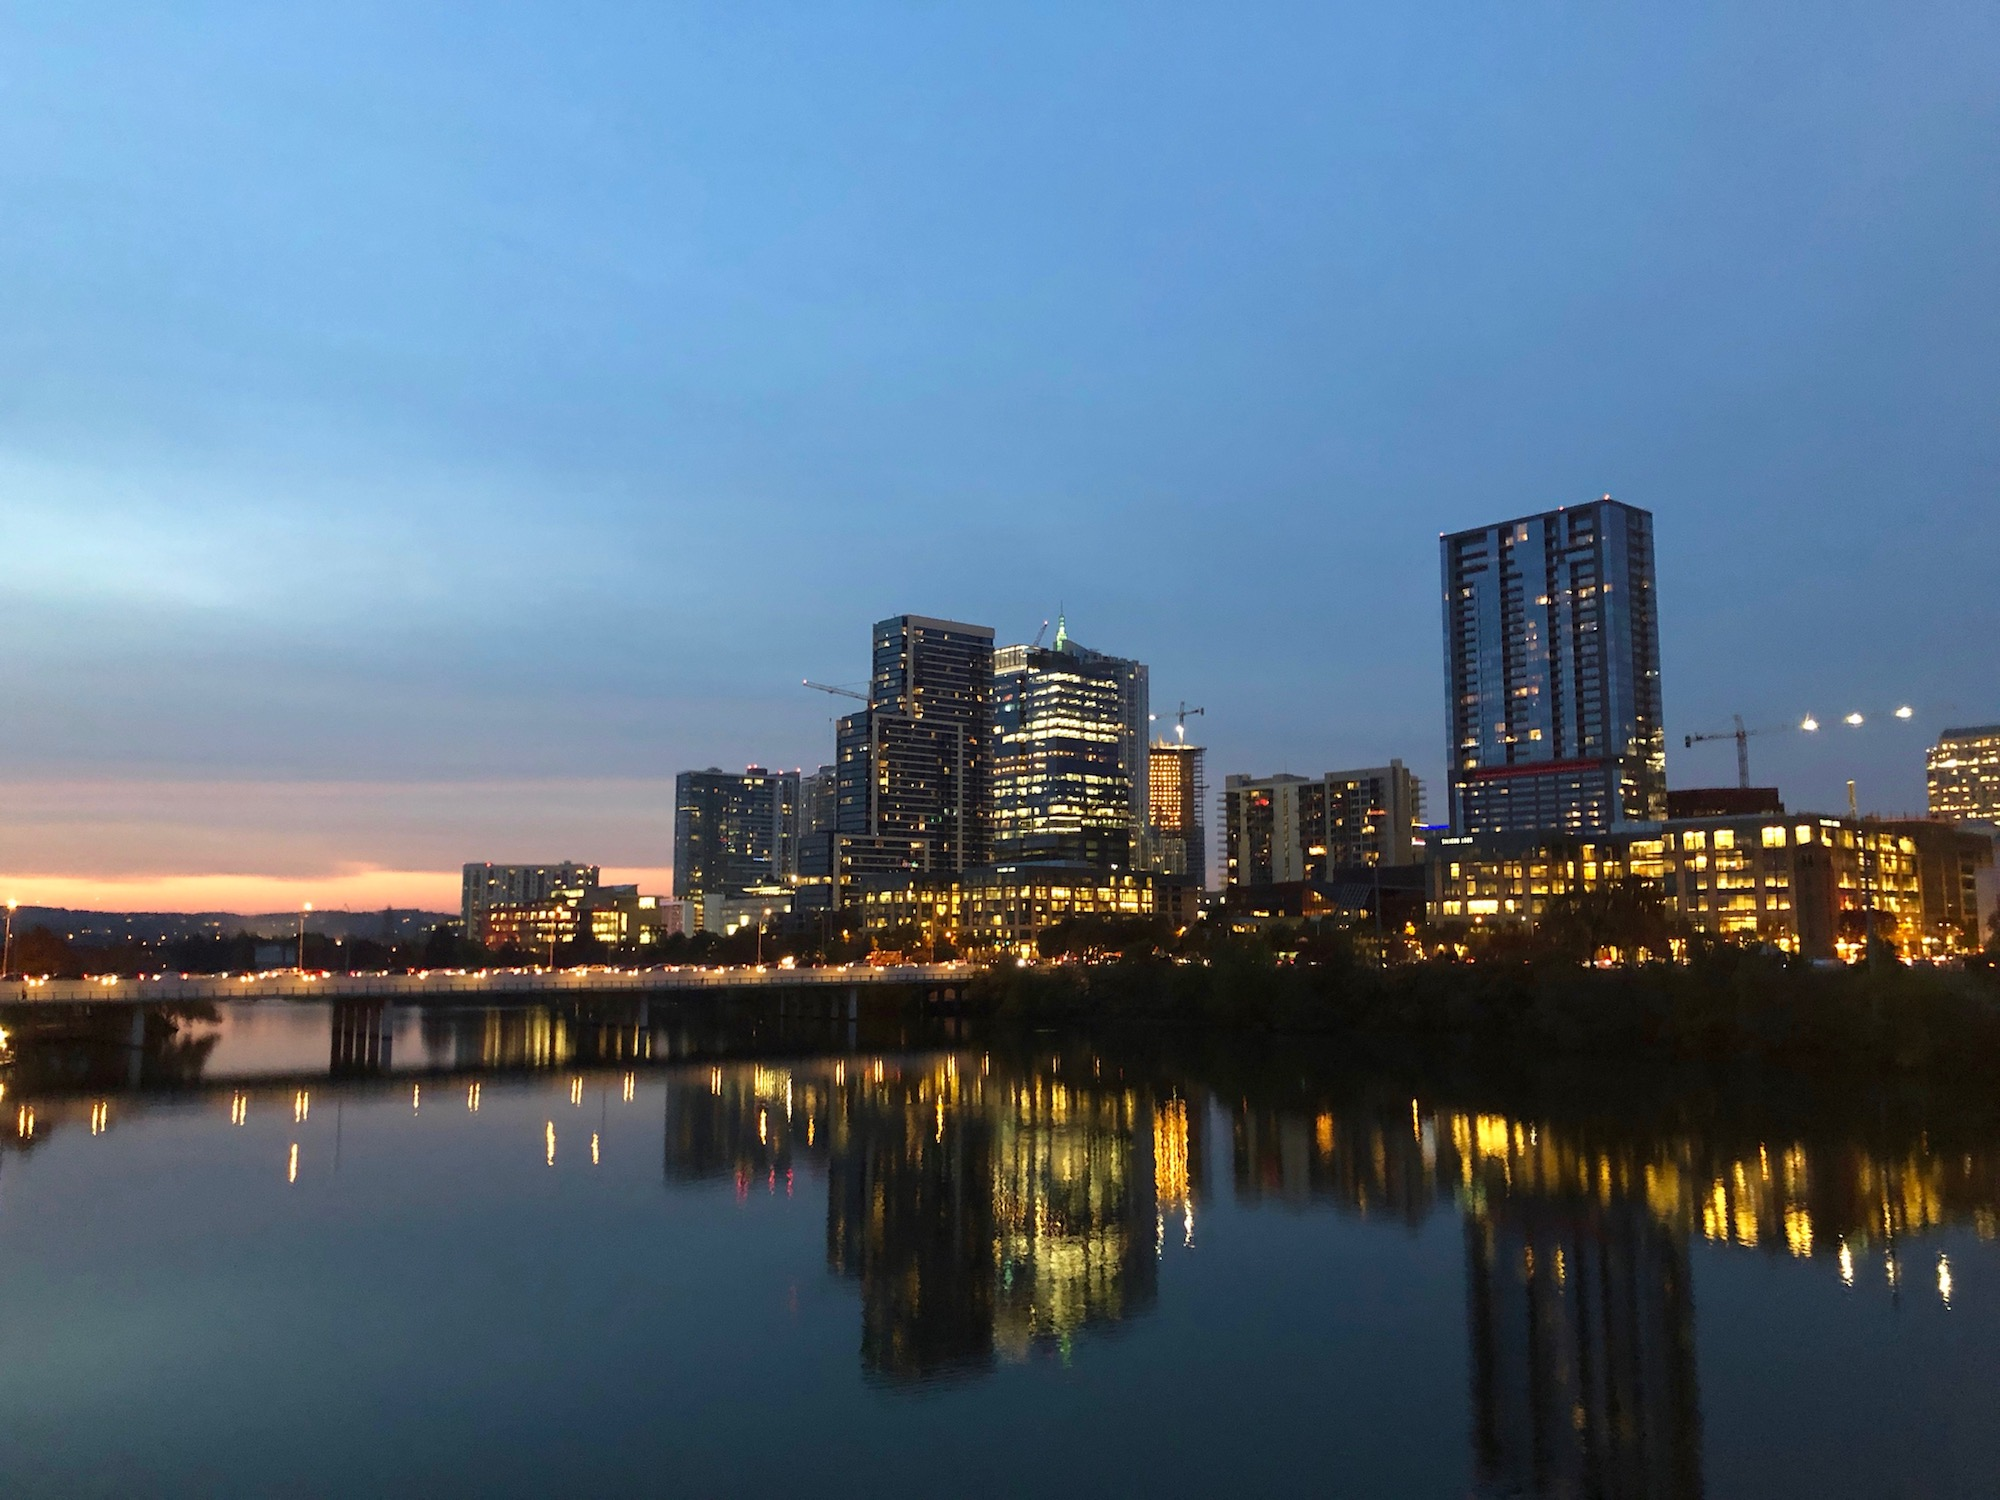
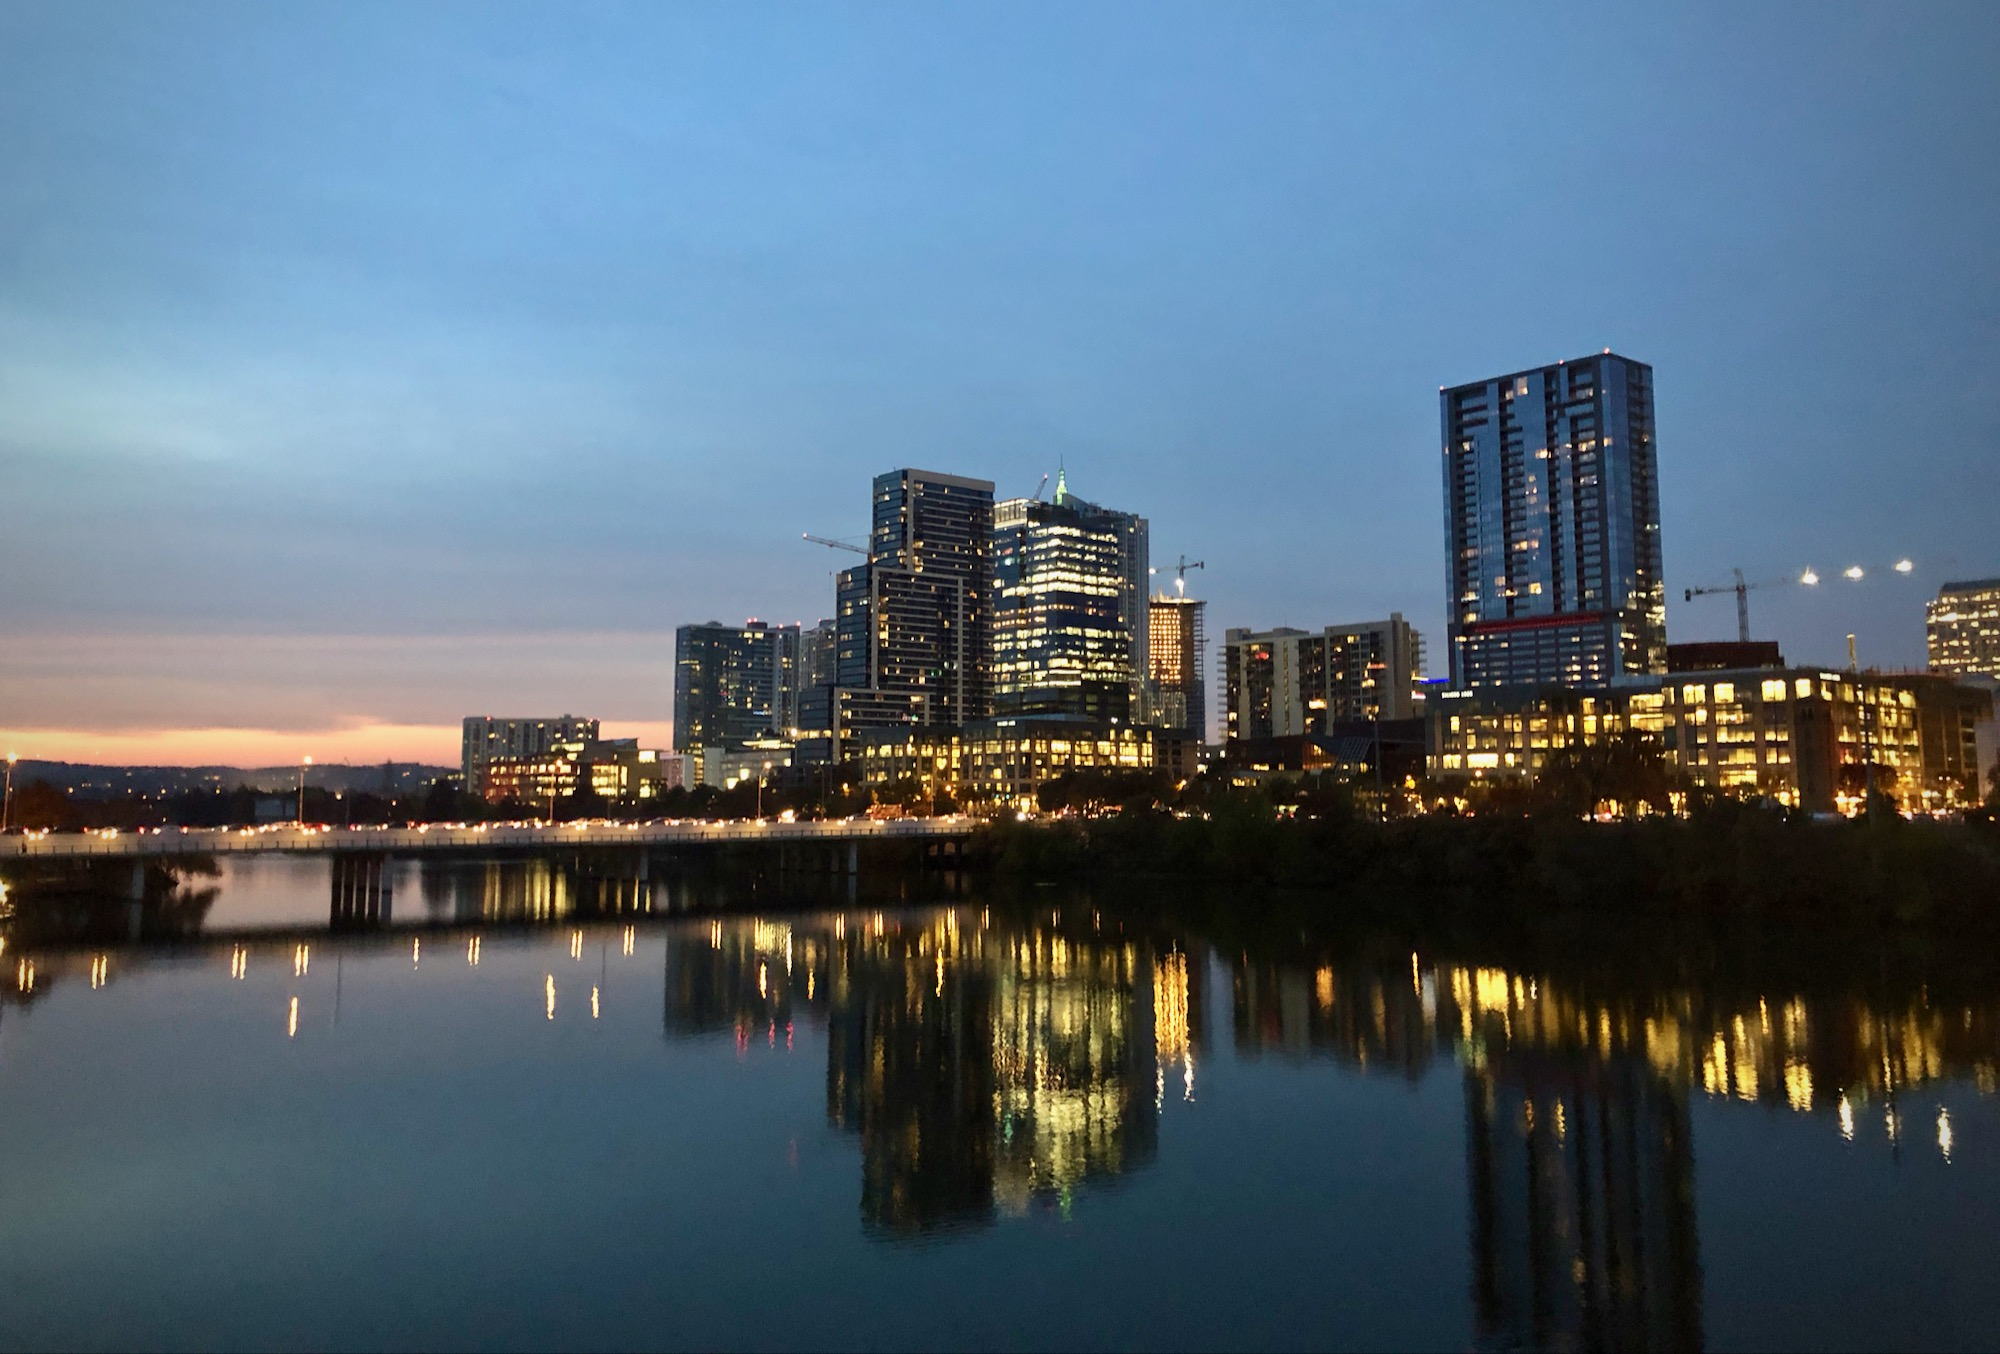
commit before branching

diff --git a/client/src/css/App.css b/client/src/css/App.css
@@ -25,27 +25,27 @@
 /************* logo ***************************/
 
 .logo-div {
-  margin: 4px 0px 6px 10px;
+  margin: 10px 0px 10px 18px;
   display: flex;
   flex-direction: column;
-  /* background-color: var(--orange-color); */
-  /* border-radius: 8px; */
-  padding: 0px 3px 0px 3px;
+  background-color: var(--orange-color);
+  border-radius: 6px;
+  padding: 3px 4px 3px 3px;
   /* border: 3px solid var(--headertext-color); */
 }
 
 .logo-text {
-  color: var(--headertext-color);
+  color: var(--header-color);
   font-weight: 700;
   font-size: 2.5em;
-  margin-top: -5px;
+  margin-top: -8px;
   letter-spacing: -1px;
 }
 
 .web-design-text {
-  color: var(--headertext-color);
+  color: var(--header-color);
   font-size: .79em;
-  margin-top: -13px;
+  margin-top: -10px;
   margin-left: 1px;
 }
 
@@ -93,8 +93,8 @@
 
 .nav-item.selected:before {
   visibility: visible;
-  -webkit-transform: scaleX(1);
-  transform: scaleX(1);
+  -webkit-transform: scaleX(1.1);
+  transform: scaleX(1.1);
   background-color: var(--orange-color);
   
 }
@@ -102,14 +102,14 @@
 .nav-item:hover:before {
   color: var(--orange-color);
   visibility: visible;
-  -webkit-transform: scaleX(1);
-  transform: scaleX(1);
+  -webkit-transform: scaleX(1.1);
+  transform: scaleX(1.1);
 }
 
 /***************** links **********************/
 
 .links-main {
-  margin-right: 6px;
+  margin-right: 12px;
   width: max-content;
   width: 65px;
   display: flex;
@@ -119,7 +119,7 @@
 
 .links-icon {
  color: var(--headertext-color);
- font-size: 22px;
+ font-size: 26px;
  cursor: pointer;
  padding: 3px 0px 3px 0px
 }
@@ -131,33 +131,38 @@
 /************** content **************/
 
 .content {
-  margin-top: 64px;
+  margin-top: 80px;
   display: flex;
   justify-content: center;
 }
 
+/************** about **************/
 
-.comp {
-  opacity: 1;
-  transition: opacity .5s ease;
+.about-wrapper {
+
+  position: relative;
+  display: flex;
+  justify-content: center;
+  align-items: center;
 }
 
-#hide {
-  opacity: 0; 
+.hello-text {
+  font-size: 5.0em;
+  position: absolute;
+  color: var(--blue-color)
 }
+
+#austin-image {
+  width: 100%;
+}
+
+/************** footer **************/
 
 .footer-main {
   background-color: var(--header-color);
 }
 
-.about-image.dv {
-  z-index: 0;
-}
 
-#austin-image {
-  width: 100%;
- 
-}
 
 @keyframes App-logo-spin {
   from {

diff --git a/client/src/components/About.js b/client/src/components/About.js
@@ -5,37 +5,38 @@ import Fade from 'react-reveal/Fade';
 class About extends Component {
 
   state = {
-    show: true
+    show: false
   }
 
   componentDidMount=()=>{
     this.renderImage()
-    // setTimeout(() => {
-    //   this.setState({show: true})
-    // }, 1000);
+    setTimeout(() => {
+      this.setState({show: true})
+    }, 400);
   }
 
   renderImage = () => {
+    if(!this.state.show){
+      return <img src="img/IMG_0326_low.jpg" alt="Austin skyline" id="austin-image"/>
+    }
     return <img src="img/IMG_0326.jpg" alt="Austin skyline" id="austin-image"/>
   }
 
   render(){
-    if (this.state.show){
-      return (
-        <div className="about-main comp">
-          <Fade>
-            <div className="about-image-div">
+    return (
+      <div className="about-main comp">
+        <Fade>
+          <div className="about-wrapper">
+            <h1 className="hello-text">HELLO</h1>
+            <div className="austin-image-div">
+              
               {this.renderImage()}
             </div>
-          </Fade>
-        </div>
-      )
-    }
-    return (
-      <div> </div>
+         
+          </div>
+        </Fade>
+      </div>
     )
-
-
   }
 }
 

diff --git a/client/src/components/Code.js b/client/src/components/Code.js
@@ -4,7 +4,7 @@ import Fade from 'react-reveal/Fade';
 
 const Code = (props) => {
   return (
-    <Fade left>
+    <Fade>
       <div className="code-main comp">
         <img src="img/JS_graphoc.png" alt="" />
       </div>

diff --git a/client/src/css/index.css b/client/src/css/index.css
@@ -6,6 +6,7 @@ body {
     sans-serif;
   -webkit-font-smoothing: antialiased;
   -moz-osx-font-smoothing: grayscale;
+  overflow-x: hidden;
 }
 
 code {
